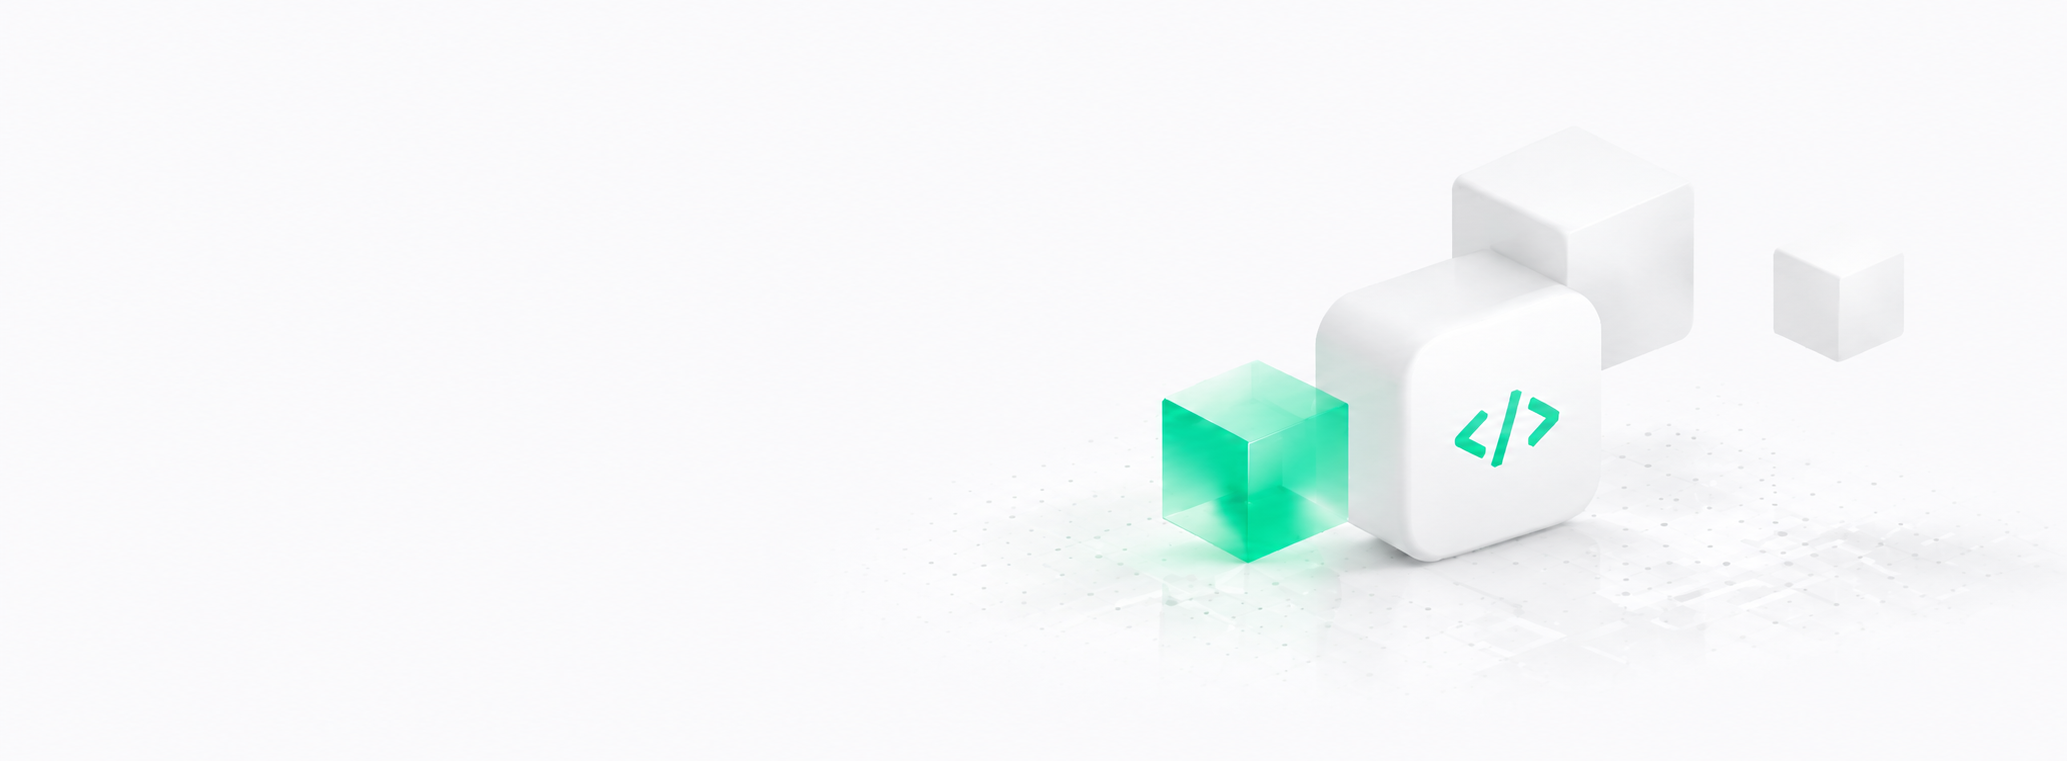
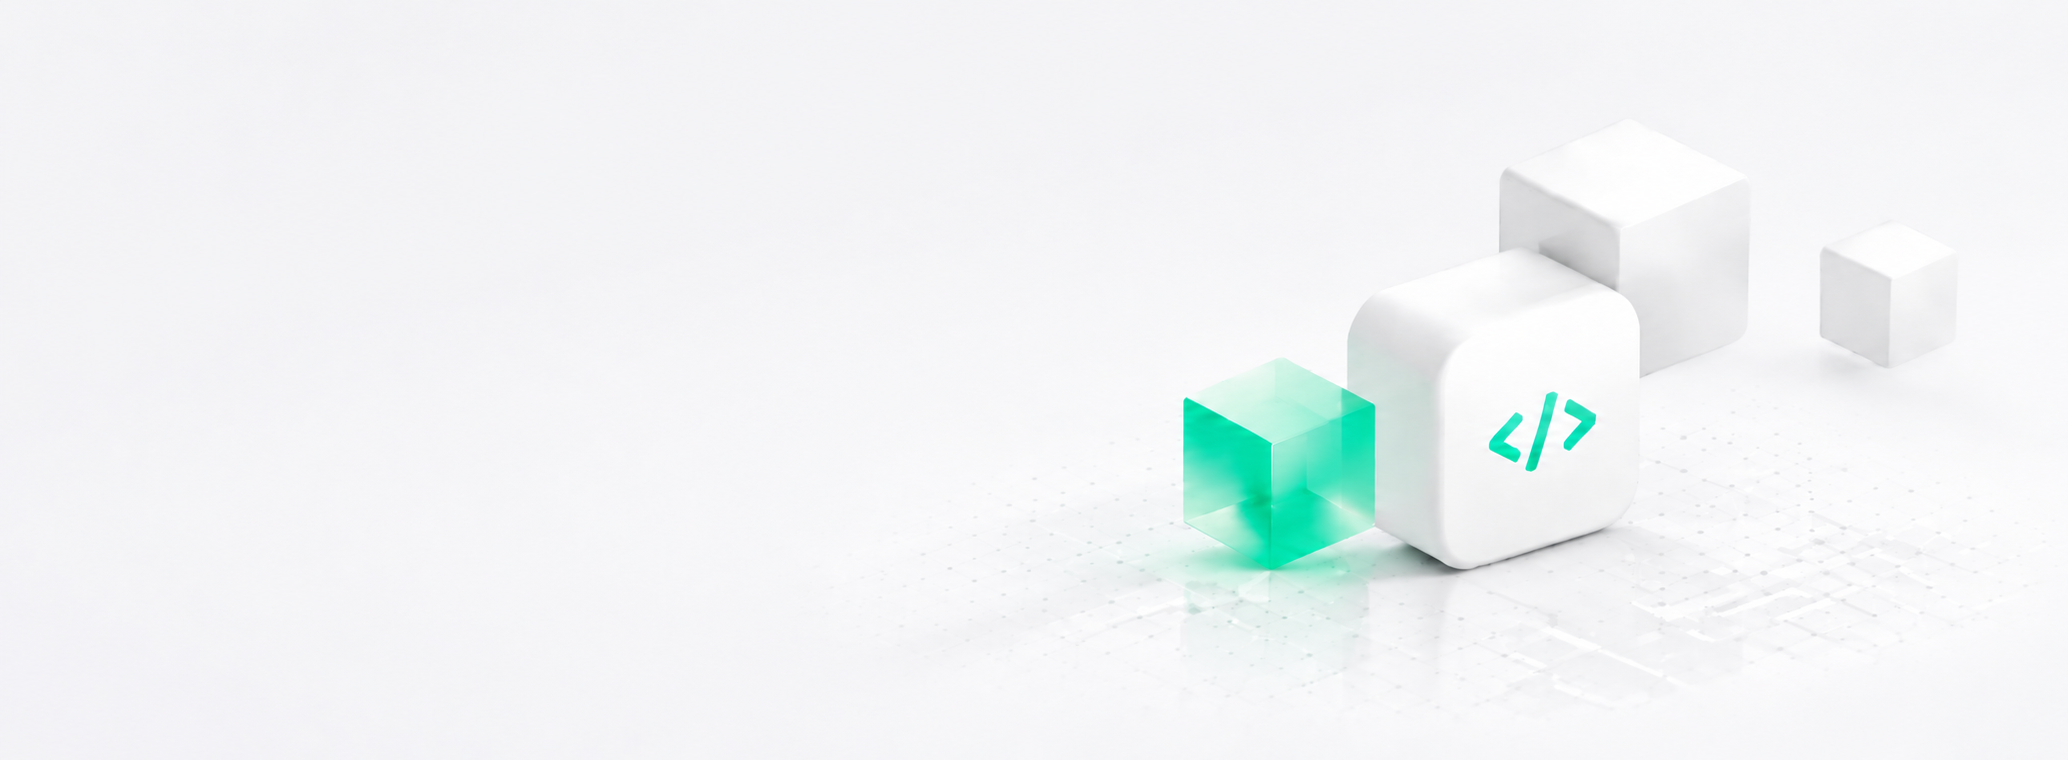
fix: 修复 About 页横幅版心及代码规范问题
- About 页横幅改为独立实现，版心 896px 与内容区对齐
- 补充 page.tsx 组件头部注释 @user/@user/@user
- SCSS 提取 %container-896 占位符消除重复样式
- 更新中英文国际化文案

diff --git a/app/[locale]/about/page.module.scss b/app/[locale]/about/page.module.scss
@@ -1,38 +1,111 @@
 /**
  * @file page.module.scss
- * @description About 页面样式（紧凑版）
+ * @description About 页面样式
  * @author gouxinjie
  */
 
-// 页面整体容器：上下内边距，随屏幕增大（已紧凑化）
+// 公共版心占位符：896px 居中容器
+%container-896 {
+  @include container-custom;
+  max-width: 896px;
+}
+
+// 页面整体容器：上下内边距
 .about {
-  padding-top: 16px;
   padding-bottom: 16px;
+  background-color: var(--color-bg);
 
   @media (min-width: 640px) {
-    padding-top: 24px;
     padding-bottom: 24px;
   }
 
-  // 内容版心容器：复用全局 container-custom 并覆盖最大宽度为 896px
+  // 内容版心容器
   &__container {
-    @include container-custom;
-    max-width: 896px;
+    @extend %container-896;
   }
 }
 
-// 页头区域：标题区块
-.header {
+// 横幅外层：版心 896px，与下方内容左对齐
+.banner-container {
+  @extend %container-896;
   margin-bottom: 24px;
+}
 
-  // 页头标题：大字号加粗（已紧凑化）
-  &__title {
-    font-size: 22px;
-    font-weight: bold;
+// 横幅：背景图 + 左侧文字
+.banner {
+  position: relative;
+  margin-top: 10px;
+  overflow: hidden;
+  display: flex;
+  flex-direction: column;
+  align-items: flex-start;
+  padding: 48px 16px 40px 16px;
+  background-repeat: no-repeat;
+  background-position: right center;
+  background-size: cover;
 
-    @media (min-width: 640px) {
-      font-size: 26px;
-    }
+  @media (min-width: 640px) {
+    padding: 56px 16px 48px 16px;
+  }
+
+  @media (min-width: 1024px) {
+    padding: 64px 16px 56px 16px;
+  }
+}
+
+// 小标签：竖线 + 文字
+.label {
+  display: inline-flex;
+  align-items: center;
+  gap: 6px;
+  font-size: 14px;
+  font-weight: 500;
+  line-height: 1;
+  color: var(--color-text-secondary);
+
+  @media (min-width: 640px) {
+    font-size: 16px;
+  }
+
+  &::before {
+    content: "";
+    display: inline-block;
+    width: 2px;
+    height: 14px;
+    border-radius: 9999px;
+    background-color: var(--color-accent);
+  }
+}
+
+// 页头大标题
+.title {
+  margin-top: 16px;
+  white-space: pre-line;
+  font-size: 30px;
+  font-weight: bold;
+  line-height: 1.25;
+  letter-spacing: -0.025em;
+  color: var(--color-text-primary);
+
+  @media (min-width: 640px) {
+    font-size: 36px;
+  }
+
+  @media (min-width: 1024px) {
+    font-size: 45px;
+  }
+}
+
+// 副标题
+.subtitle {
+  margin-top: 12px;
+  font-size: 16px;
+  line-height: 1.625;
+  color: var(--color-text-secondary);
+
+  @media (min-width: 640px) {
+    font-size: 18px;
+    max-width: 480px;
   }
 }
 

diff --git a/app/[locale]/about/page.tsx b/app/[locale]/about/page.tsx
@@ -1,10 +1,11 @@
 /**
- * AboutPage
+ * @component AboutPage
  * @description 关于我页面
  * @author gouxinjie
+ * @created 2025-06-01
+ * @updated 2025-07-14
  */
 
-import { Metadata } from "next";
 import { experiences, skills } from "@/lib/data";
 import GitHubDashboard from "@/components/business/GitHubDashboard";
 import FadeIn from "@/components/commons/FadeIn";
@@ -17,14 +18,20 @@ export default function AboutPage() {
 
   return (
     <div className={styles.about}>
-      <div className={styles.about__container}>
-        {/* Header */}
+      {/* 页头横幅：版心 896px，使用 about-bg-1.png 背景 */}
+      <div className={styles['banner-container']}>
         <FadeIn>
-          <div className={styles.header}>
-            <h1 className={styles.header__title}>{t("title")}</h1>
+          <div
+            className={styles.banner}
+            style={{ backgroundImage: 'url("/images/about-bg-1.png")' }}
+          >
+            <span className={styles.label}>{t("label")}</span>
+            <h1 className={styles.title}>{t("title")}</h1>
+            <p className={styles.subtitle}>{t("subtitle")}</p>
           </div>
         </FadeIn>
-
+      </div>
+      <div className={styles.about__container}>
         {/* Bio */}
         <FadeIn delay={0.1}>
           <section className={styles.bio}>

diff --git a/components/business/FeaturedProjects/index.module.scss b/components/business/FeaturedProjects/index.module.scss
@@ -92,7 +92,7 @@
     font-weight: 500;
     color: var(--color-text-secondary);
     cursor: pointer;
-    transition: color 0.2s;
+    transition: color 0.2s, background-color 0.2s, font-weight 0.2s;
 
     &:hover {
       color: var(--color-text-primary);